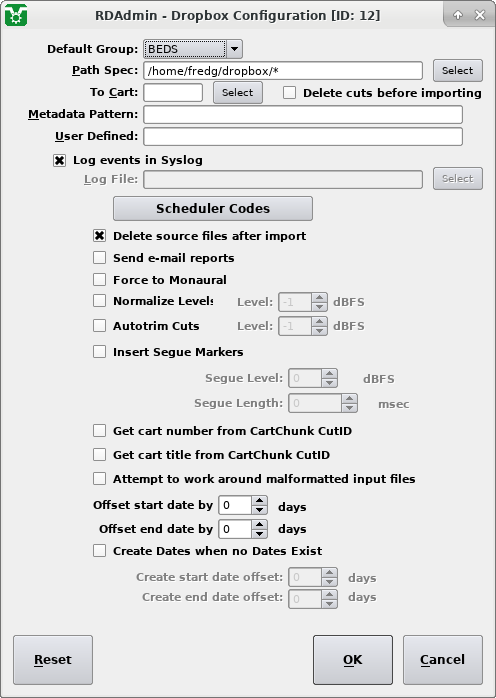
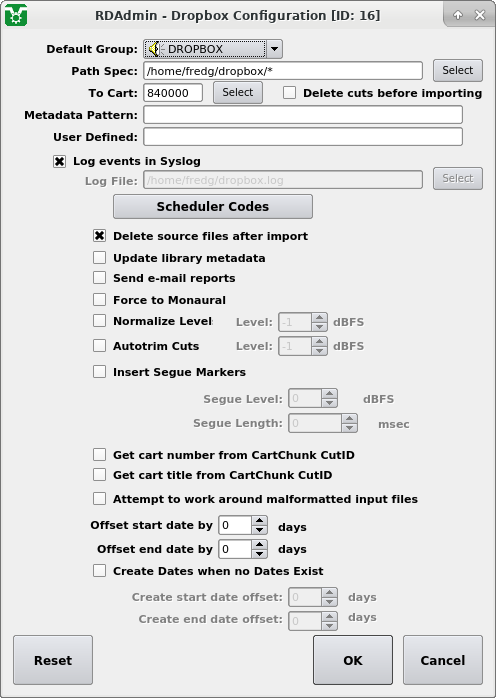
2023-07-07 Fred Gleason <fredg@paravelsystems.com> 	* Moved the entry for the '--update-metadata' to its proper 	alphabetical position on the rdimport(1) man page. 	* Tweaked the layout of the 'Dropbox Configuration' dialog in 	rdadmin(1). 	* Updated the screenshot for the 'Dropbox Configuration' di

diff --git a/rdadmin/edit_dropbox.cpp b/rdadmin/edit_dropbox.cpp
@@ -135,25 +135,25 @@ EditDropbox::EditDropbox(int id,bool duplicate,QWidget *parent)
   // Logging
   //
   box_log_to_syslog_check=new QCheckBox(this);
-  box_log_to_syslog_check->setGeometry(50,124,15,15);
+  box_log_to_syslog_check->setGeometry(50,125,15,15);
   label=new QLabel(tr("Log events in Syslog"),this);
   label->setGeometry(70,122,250,19);
   label->setFont(labelFont());
   label->setAlignment(Qt::AlignLeft|Qt::AlignVCenter);
 
   box_log_path_edit=new QLineEdit(this);
-  box_log_path_edit->setGeometry(140,137,sizeHint().width()-210,19);
-  box_log_path_edit->setMaxLength(255);
+  box_log_path_edit->setGeometry(140,141,sizeHint().width()-210,19);
+  box_log_path_edit->setMaxLength(191);
   connect(box_log_to_syslog_check,SIGNAL(toggled(bool)),
 	  box_log_path_edit,SLOT(setDisabled(bool)));
   box_log_path_label=new QLabel(tr("Log File:"),this);
-  box_log_path_label->setGeometry(10,141,125,19);
+  box_log_path_label->setGeometry(10,142,125,19);
   box_log_path_label->setFont(labelFont());
   box_log_path_label->setAlignment(Qt::AlignRight|Qt::AlignVCenter);
   connect(box_log_to_syslog_check,SIGNAL(toggled(bool)),
 	  box_log_path_label,SLOT(setDisabled(bool)));
   box_log_path_button=new QPushButton(tr("Select"),this);
-  box_log_path_button->setGeometry(sizeHint().width()-60,136,50,23);
+  box_log_path_button->setGeometry(sizeHint().width()-60,138,50,23);
   box_log_path_button->setFont(subButtonFont());
   connect(box_log_path_button,SIGNAL(clicked()),
 	  this,SLOT(selectLogPathData()));
@@ -326,7 +326,7 @@ EditDropbox::EditDropbox(int id,bool duplicate,QWidget *parent)
   box_startoffset_spin->setGeometry(215,486,50,20);
   box_startoffset_spin->setRange(-7,7);
   label=new QLabel(tr("Offset start date by"),this);
-  label->setGeometry(90,486,120,20);
+  label->setGeometry(10,486,200,20);
   label->setFont(labelFont());
   label->setAlignment(Qt::AlignRight|Qt::AlignVCenter);
   label=new QLabel(tr("days"),this);
@@ -341,7 +341,7 @@ EditDropbox::EditDropbox(int id,bool duplicate,QWidget *parent)
   box_endoffset_spin->setGeometry(215,510,50,20);
   box_endoffset_spin->setRange(-7,7);
   label=new QLabel(tr("Offset end date by"),this);
-  label->setGeometry(90,510,120,20);
+  label->setGeometry(10,510,200,20);
   label->setFont(labelFont());
   label->setAlignment(Qt::AlignRight|Qt::AlignVCenter);
   label=new QLabel(tr("days"),this);
